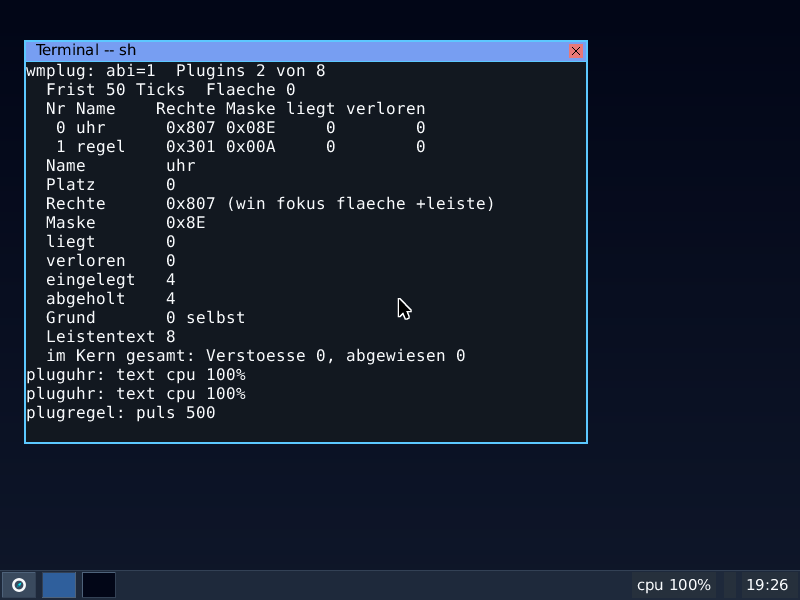
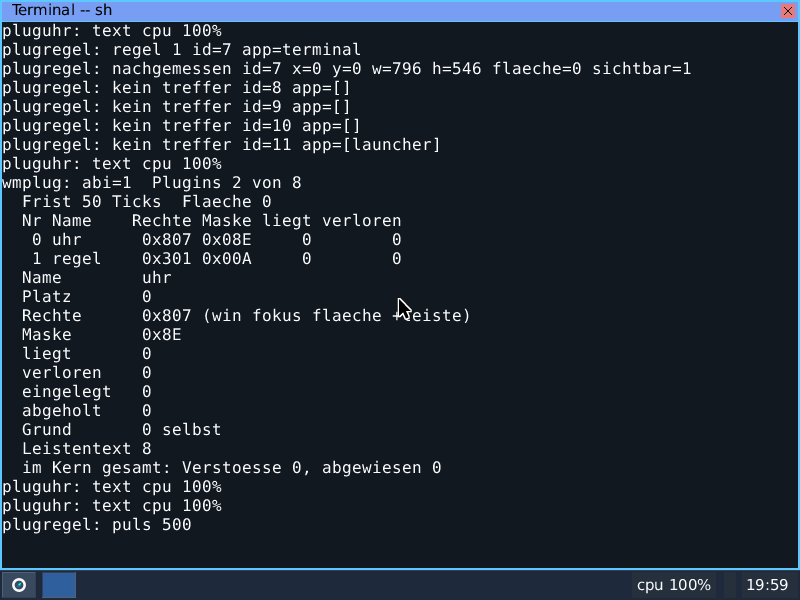
wmplugin/spalten: der Rasterursprung wird gemessen, nicht eingetragen
Der Laeufer trug (26,62) als erste Zelle des Terminals ein. Seit die
Regel-Engine das Terminalfenster nach (0,0) setzt, liegt sie bei (2,22):
jede Bildzusage war rot, obwohl im Bild alles richtig stand -- derselbe
Fehler wie die abgeschriebene 2116 zwei Abschnitte weiter oben. Jetzt
sucht der Laeufer das umschliessende Rechteck der Terminalfarbe und
nennt die gefundene Ecke.

Am ganzen Baum dieser Runde gemessen, echter QEMU-Lauf, Exitcode 21:

    SPALTEN: 25 bestanden, 0 gescheitert

Bild 09 und docs/shots/wmplug/spalten-zwei-plugins.png stammen aus
diesem Lauf.

Changed region(s): [[0.0, 0.0, 1.0, 0.9], [0.0, 0.93, 1.0, 1.0], [0.4375, 0.57, 0.5938, 0.6]]

diff --git a/docs/RUNDE-WMPLUGIN.md b/docs/RUNDE-WMPLUGIN.md
@@ -1038,7 +1038,7 @@ Glyphe gegen den Rasterer, nicht „da ist irgendwas hell":
   OK  Name (Platz 1):   Wert 'regel' ab Spalte 5
   OK  Rechte (Platz 1): Wert '0x301' ab Spalte 14
 
-SPALTEN: 24 bestanden, 0 gescheitert
+SPALTEN: 25 bestanden, 0 gescheitert
 ```
 
 **Zwei Plugins gleichzeitig, und das ist kein Schmuck:** unter einer
@@ -1051,7 +1051,7 @@ Bilder: `docs/shots/wmplug/spalten-zwei-plugins.png`, und
 `.gauntlet-shots/09-wmplug-verwaltung.png` ist aus diesem Lauf **neu
 aufgenommen** (das alte zeigte die drei Fehler von oben).
 
-**Zwei gemessene Fehlgriffe dieses Laeufers, benannt statt weggeputzt:**
+**Drei gemessene Fehlgriffe dieses Laeufers, benannt statt weggeputzt:**
 
 1. Die Farben des Terminals waren von `tools/wm/run.sh` abgeschrieben
    (224,230,236 auf 16,20,26). Das ist das Terminal des **nackten**
@@ -1059,7 +1059,16 @@ aufgenommen** (das alte zeigte die drei Fehler von oben).
    und malt **248,250,252 auf 18,24,32**. Mit den geborgten Zahlen war
    jede Glyphe „falsch", obwohl sie richtig stand — nachgemessen am PPM
    und nicht geraten.
-2. `plugpaar` gab beiden Plugins zuerst `runden=40`. Eine Runde der Uhr
+2. Der **Ursprung des Rasters** stand als `(26,62)` im Laeufer. Das galt
+   genau so lange, bis die Regel-Engine mit ihrem neuen Leserecht (14.2)
+   anfing, das Terminalfenster nach `(0,0)` zu setzen: dann liegt die
+   erste Zelle bei `(2,22)`, jede Zusage war rot — und im Bild stand
+   alles richtig. Jetzt wird das umschliessende Rechteck der
+   Terminalfarbe gesucht; seine linke obere Ecke **ist** die erste
+   Zelle, und der Laeufer sagt sie an (`die erste Zelle des Terminals
+   liegt bei (2,22) -- am Bild gemessen`). Dieselbe Lehre wie oben: eine
+   abgeschriebene Zahl haelt genau bis zur naechsten Runde.
+3. `plugpaar` gab beiden Plugins zuerst `runden=40`. Eine Runde der Uhr
    ist eine Sekunde, eine Runde der Regel-Engine zehn Millisekunden: die
    Regel-Engine war nach vier Zehntelsekunden wieder weg, und die Tafel
    zeigte **ein** Plugin statt zweier. Die Zahlen (40 / 2000) sind
@@ -1074,7 +1083,7 @@ dorthin und die Datei faellt weg.
 ### 15.5 Nachfahren
 
 ```
-bash tools/wmplug/spalten.sh      # SPALTEN: 24 bestanden, 0 gescheitert
+bash tools/wmplug/spalten.sh      # SPALTEN: 25 bestanden, 0 gescheitert
 bash tools/desktop/run.sh         # TASKBAR: 58 passed, 41 failed
 bash tools/paint/run.sh           # PAINT:   28 bestanden, 4 fehlgeschlagen
 bash tools/check-ui.sh            # CHECK-UI PASSED.

diff --git a/.gauntlet-shots/README.md b/.gauntlet-shots/README.md
@@ -16,7 +16,7 @@ Bilder 09/10 kommen aus dem Abnahmelauf `tools/wmplug/run.sh`
 | 06-breit-1440x900.png | Breiter Schirm (`fbres=1440x900`): Leiste ueber die volle Breite, Widget-Text rechts, Fenster oben links. |
 | 07-eng-800x600.png | Vorgabe-Schirm 800x600 mit Widget. |
 | 08-sehr-eng-640x480.png | Enger Schirm 640x480 -- hier zeigt sich, ob Leiste und Fenster einander ins Gehege kommen. |
-| 09-wmplug-verwaltung.png | `/bin/wmplug list` + `info uhr` im Terminal, mit ZWEI gleichzeitig angemeldeten Plugins (`uhr` 0x807, `regel` 0x301): Fassung `abi=1`, Statuszeile auf zwei Zeilen umgebrochen, Tabellenkopf ueber seinen Werten. Neu aufgenommen von `tools/wmplug/spalten.sh` (24 bestanden, 0 gescheitert); dasselbe Bild liegt als `docs/shots/wmplug/spalten-zwei-plugins.png`. |
+| 09-wmplug-verwaltung.png | `/bin/wmplug list` + `info uhr` im Terminal, mit ZWEI gleichzeitig angemeldeten Plugins (`uhr` 0x807, `regel` 0x301): Fassung `abi=1`, Statuszeile auf zwei Zeilen umgebrochen, Tabellenkopf ueber seinen Werten. Neu aufgenommen von `tools/wmplug/spalten.sh` (25 bestanden, 0 gescheitert); dasselbe Bild liegt als `docs/shots/wmplug/spalten-zwei-plugins.png`. |
 | 10-nach-plugin-absturz.png | Nach einem absichtlichen SIGSEGV eines Plugins: der Schreibtisch malt weiter (479819 von 480000 Bildpunkten nicht schwarz, gemessen im Abnahmelauf). |
 
 ## Was auf den Bildern AUFFAELLT (nicht behauptet, sondern sichtbar)
